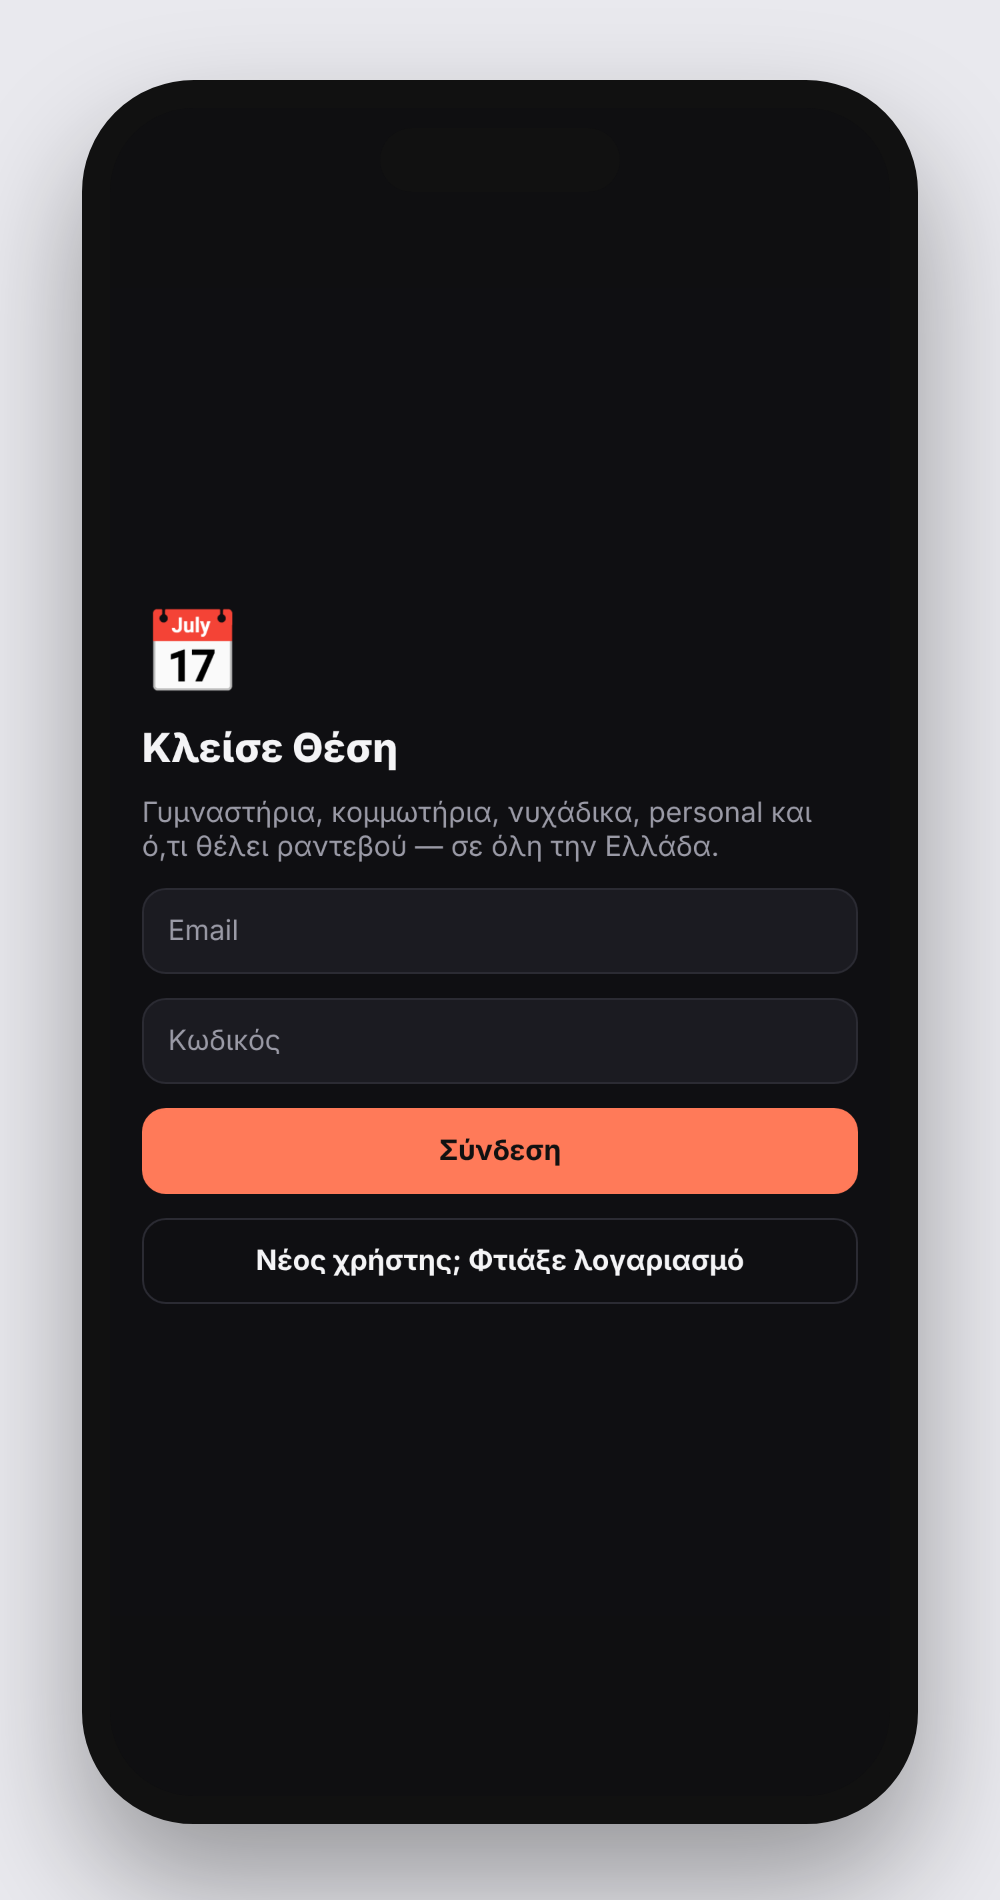
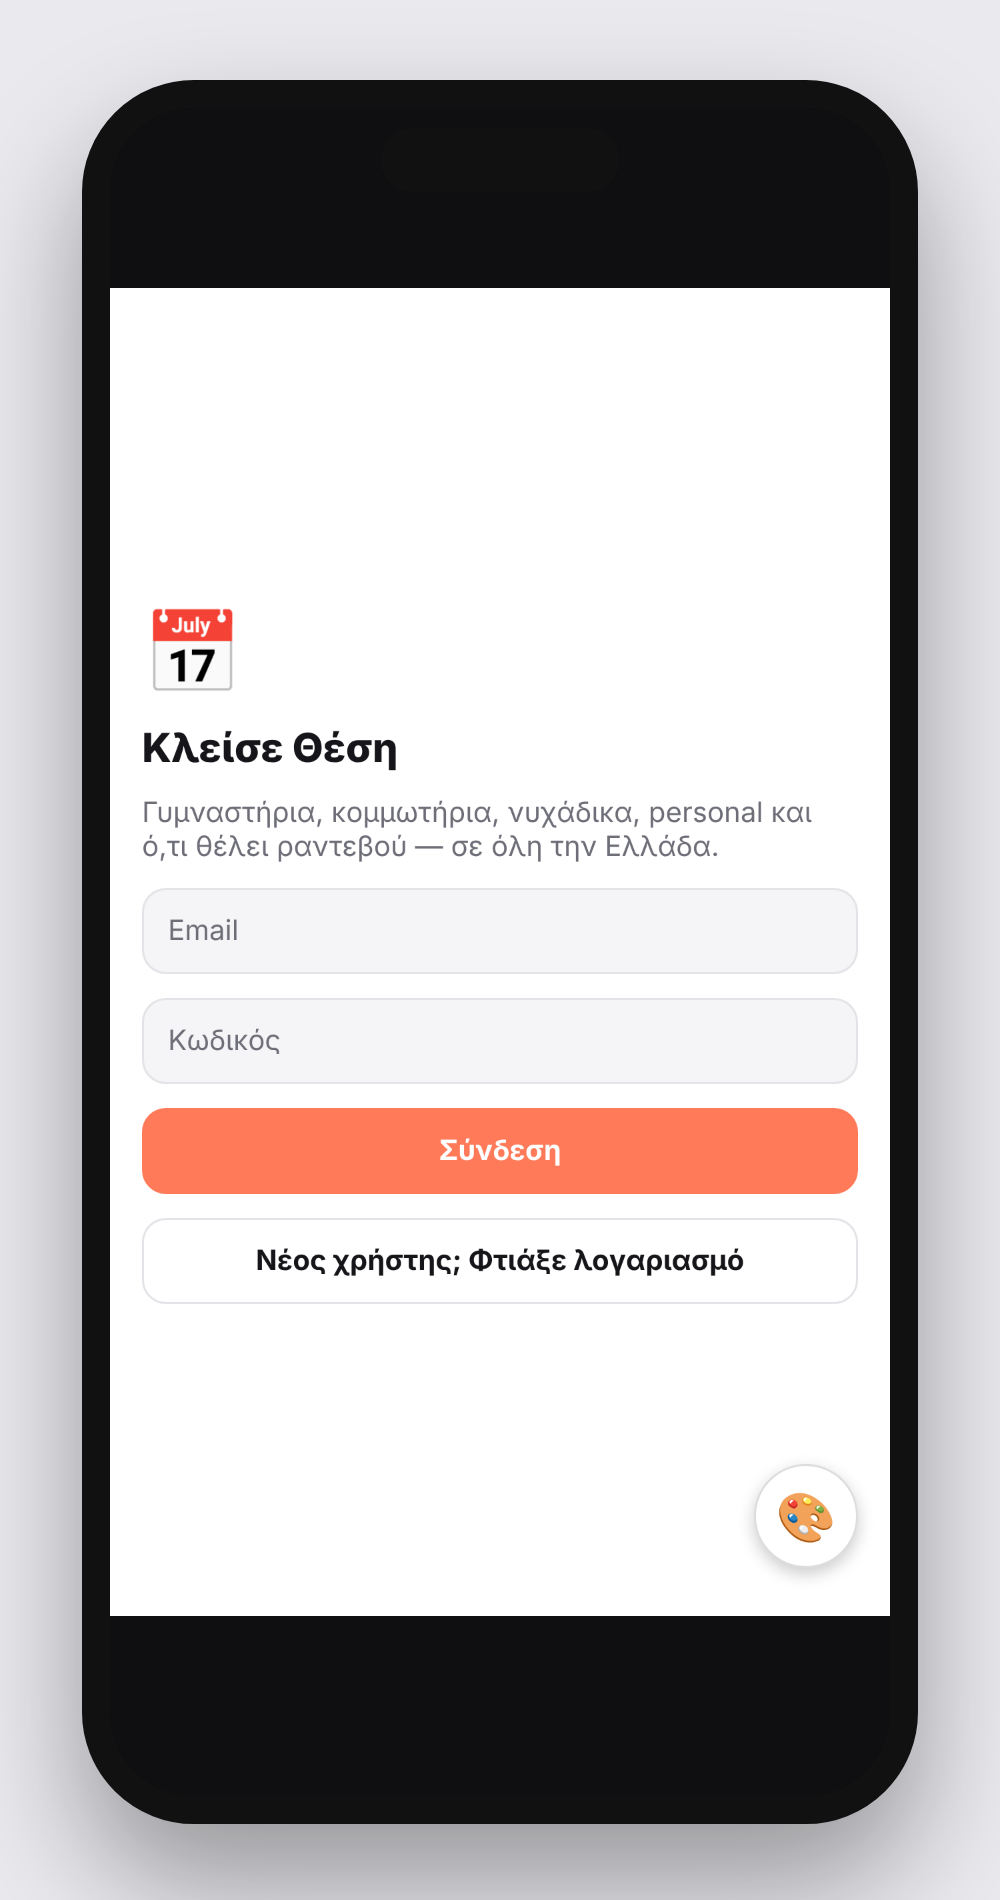
Άσπρο θέμα και live επεξεργαστής χρωμάτων (🎨)
Τα χρώματα ζουν στο lib/theme.ts, αλλάζουν από το πλωτό κουμπί 🎨
και αποθηκεύονται στη συσκευή.

Claude-Session: https://claude.ai/code/session_012ZWiMbW6J2KhnAgV6Pek42

diff --git a/lib/ColorEditor.tsx b/lib/ColorEditor.tsx
@@ -1,0 +1,56 @@
+import React, { useState } from 'react';
+import { Platform, Pressable, ScrollView, Text, TextInput, View } from 'react-native';
+import { C, LABELS, Theme, resetColors, setColors } from './theme';
+
+const SWATCHES = ['#ff7a59', '#e5484d', '#ec4899', '#a855f7', '#6366f1', '#2563eb', '#0ea5e9', '#14b8a6', '#1fa971', '#eab308', '#16161a', '#ffffff'];
+const HEX = /^#[0-9a-fA-F]{6}$/;
+
+function Row({ k }: { k: keyof Theme }) {
+  const [txt, setTxt] = useState(C[k]);
+  const set = (v: string) => { setTxt(v); if (HEX.test(v)) setColors({ [k]: v } as Partial<Theme>); };
+  return (
+    <View style={{ gap: 6, paddingVertical: 8, borderTopWidth: 1, borderTopColor: '#eee' }}>
+      <View style={{ flexDirection: 'row', alignItems: 'center', gap: 8 }}>
+        {Platform.OS === 'web'
+          ? React.createElement('input', { type: 'color', value: HEX.test(txt) ? txt : C[k], onChange: (e: any) => set(e.target.value),
+              style: { width: 36, height: 36, border: 'none', padding: 0, background: 'none', cursor: 'pointer' } })
+          : <View style={{ width: 32, height: 32, borderRadius: 8, backgroundColor: C[k], borderWidth: 1, borderColor: '#ccc' }} />}
+        <Text style={{ flex: 1, color: '#16161a', fontWeight: '600' }}>{LABELS[k]}</Text>
+        <TextInput value={txt} onChangeText={set} autoCapitalize="none"
+          style={{ width: 90, borderWidth: 1, borderColor: '#ddd', borderRadius: 8, padding: 6, color: '#16161a', fontFamily: Platform.OS === 'web' ? 'monospace' : undefined }} />
+      </View>
+      <View style={{ flexDirection: 'row', flexWrap: 'wrap', gap: 6 }}>
+        {SWATCHES.map((c) => <Pressable key={c} onPress={() => set(c)}
+          style={{ width: 22, height: 22, borderRadius: 11, backgroundColor: c, borderWidth: 1, borderColor: '#ccc' }} />)}
+      </View>
+    </View>
+  );
+}
+
+/* Πλωτό κουμπί 🎨 → πάνελ για να αλλάζεις όλα τα χρώματα live. Η επιλογή αποθηκεύεται στη συσκευή. */
+export default function ColorEditor() {
+  const [open, setOpen] = useState(false);
+  const [n, setN] = useState(0);
+  return (
+    <>
+      <Pressable onPress={() => setOpen(!open)} accessibilityLabel="Επεξεργαστής χρωμάτων"
+        style={{ position: 'absolute', right: 16, bottom: 24, width: 52, height: 52, borderRadius: 26, backgroundColor: '#fff',
+          alignItems: 'center', justifyContent: 'center', borderWidth: 1, borderColor: '#ddd', zIndex: 1000,
+          shadowColor: '#000', shadowOpacity: 0.2, shadowRadius: 8, shadowOffset: { width: 0, height: 3 }, elevation: 6 }}>
+        <Text style={{ fontSize: 24 }}>{open ? '✕' : '🎨'}</Text>
+      </Pressable>
+      {open && (
+        <View style={{ position: 'absolute', left: 12, right: 12, bottom: 88, maxHeight: '45%', backgroundColor: '#fff', borderRadius: 16,
+          borderWidth: 1, borderColor: '#ddd', zIndex: 999, shadowColor: '#000', shadowOpacity: 0.2, shadowRadius: 16, elevation: 10 }}>
+          <View style={{ flexDirection: 'row', alignItems: 'center', padding: 14, paddingBottom: 6 }}>
+            <Text style={{ flex: 1, fontSize: 17, fontWeight: '800', color: '#16161a' }}>Χρώματα</Text>
+            <Pressable onPress={() => { resetColors(); setN(n + 1); }}><Text style={{ color: '#2563eb', fontWeight: '600' }}>Επαναφορά</Text></Pressable>
+          </View>
+          <ScrollView key={n} contentContainerStyle={{ paddingHorizontal: 14, paddingBottom: 14 }}>
+            {(Object.keys(LABELS) as (keyof Theme)[]).map((k) => <Row key={k} k={k} />)}
+          </ScrollView>
+        </View>
+      )}
+    </>
+  );
+}

diff --git a/lib/ui.tsx b/lib/ui.tsx
@@ -1,7 +1,8 @@
 import React from 'react';
 import { Pressable, StyleSheet, Text, TextInput, TextInputProps, View, ViewStyle } from 'react-native';
 
-export const C = { bg: '#0f0f12', card: '#1b1b21', line: '#2b2b33', text: '#f4f4f6', mute: '#9a9aa6', accent: '#ff7a59', ok: '#3ecf8e', bad: '#ff5d5d' };
+import { C, onTheme } from './theme';
+export { C };
 
 export const CATEGORIES: { key: string; label: string; emoji: string }[] = [
   { key: 'gym', label: 'Γυμναστήρια', emoji: '🏋' },
@@ -27,7 +28,7 @@ export const fmtDay = (s: string) => { const d = new Date(s + 'T00:00'); return 
 export function Btn({ title, onPress, kind = 'primary', disabled, style }:
   { title: string; onPress: () => void; kind?: 'primary' | 'ghost' | 'danger'; disabled?: boolean; style?: ViewStyle }) {
   const bg = kind === 'primary' ? C.accent : 'transparent';
-  const color = kind === 'danger' ? C.bad : kind === 'ghost' ? C.text : '#111';
+  const color = kind === 'danger' ? C.bad : kind === 'ghost' ? C.text : C.onAccent;
   return (
     <Pressable onPress={onPress} disabled={disabled}
       style={[s.btn, { backgroundColor: bg, borderColor: kind === 'primary' ? C.accent : C.line, opacity: disabled ? 0.5 : 1 }, style]}>
@@ -40,7 +41,7 @@ export const Card = ({ children, style }: { children: React.ReactNode; style?: V
 export const H = ({ children }: { children: React.ReactNode }) => <Text style={s.h}>{children}</Text>;
 export const T = ({ children, mute }: { children: React.ReactNode; mute?: boolean }) => <Text style={{ color: mute ? C.mute : C.text }}>{children}</Text>;
 
-export const s = StyleSheet.create({
+const make = () => StyleSheet.create({
   screen: { flex: 1, backgroundColor: C.bg },
   pad: { padding: 16, gap: 12 },
   btn: { paddingVertical: 12, paddingHorizontal: 16, borderRadius: 12, borderWidth: 1, alignItems: 'center' },
@@ -50,3 +51,6 @@ export const s = StyleSheet.create({
   chip: { paddingVertical: 8, paddingHorizontal: 12, borderRadius: 999, borderWidth: 1, borderColor: C.line },
   row: { flexDirection: 'row', alignItems: 'center', gap: 8 },
 });
+
+export const s = make();
+onTheme(() => Object.assign(s, make()));

diff --git a/lib/theme.ts b/lib/theme.ts
@@ -1,0 +1,32 @@
+import AsyncStorage from '@react-native-async-storage/async-storage';
+
+/* Τα χρώματα της εφαρμογής. Αλλάζουν live από τον επεξεργαστή χρωμάτων (🎨). */
+export const DEFAULT = {
+  bg: '#ffffff', card: '#f5f5f7', line: '#e3e3e8', text: '#16161a', mute: '#6e6e78',
+  accent: '#ff7a59', onAccent: '#ffffff', ok: '#1fa971', bad: '#e5484d',
+};
+export type Theme = typeof DEFAULT;
+export const LABELS: Record<keyof Theme, string> = {
+  bg: 'Φόντο', card: 'Κάρτες / πεδία', line: 'Περιγράμματα', text: 'Κείμενο', mute: 'Δευτερεύον κείμενο',
+  accent: 'Κύριο χρώμα', onAccent: 'Κείμενο πάνω στο κύριο', ok: 'Επιτυχία', bad: 'Σφάλμα',
+};
+export const C: Theme = { ...DEFAULT };
+
+const KEY = 'theme.v1';
+const subs = new Set<() => void>();
+export const onTheme = (f: () => void) => { subs.add(f); return () => { subs.delete(f); }; };
+const emit = () => subs.forEach((f) => f());
+
+export function setColors(p: Partial<Theme>) {
+  Object.assign(C, p); emit();
+  AsyncStorage.setItem(KEY, JSON.stringify(C)).catch(() => {});
+}
+export const resetColors = () => setColors(DEFAULT);
+export async function loadTheme() {
+  try { const v = await AsyncStorage.getItem(KEY); if (v) { Object.assign(C, JSON.parse(v)); emit(); } } catch {}
+}
+export const isDark = () => {
+  const h = C.bg.replace('#', ''); if (h.length < 6) return false;
+  const [r, g, b] = [0, 2, 4].map((i) => parseInt(h.slice(i, i + 2), 16));
+  return 0.299 * r + 0.587 * g + 0.114 * b < 128;
+};

diff --git a/app/owner/setup.tsx b/app/owner/setup.tsx
@@ -57,7 +57,7 @@ export default function Setup() {
       <View style={[s.row, { flexWrap: 'wrap' }]}>
         {CATEGORIES.map((c) => (
           <Pressable key={c.key} onPress={() => setB({ ...b, category: c.key })} style={[s.chip, b.category === c.key && { backgroundColor: C.accent, borderColor: C.accent }]}>
-            <Text style={{ color: b.category === c.key ? '#111' : C.text }}>{c.emoji} {c.label}</Text>
+            <Text style={{ color: b.category === c.key ? C.onAccent : C.text }}>{c.emoji} {c.label}</Text>
           </Pressable>))}
       </View>
       <Input placeholder="Πόλη" value={b.city} onChangeText={(v) => setB({ ...b, city: v })} />
@@ -86,7 +86,7 @@ export default function Setup() {
       <View style={[s.row, { flexWrap: 'wrap' }]}>
         {DAYS.map((d, i) => { const on = hours.some((h) => h.weekday === i); return (
           <Pressable key={d} onPress={() => toggleDay(i)} style={[s.chip, on && { backgroundColor: C.accent, borderColor: C.accent }]}>
-            <Text style={{ color: on ? '#111' : C.text }}>{d}</Text></Pressable>); })}
+            <Text style={{ color: on ? C.onAccent : C.text }}>{d}</Text></Pressable>); })}
       </View>
       {hours.map((h, i) => (
         <View key={h.weekday} style={s.row}>

diff --git a/app/_layout.tsx b/app/_layout.tsx
@@ -1,7 +1,11 @@
 import { Stack, Redirect, useSegments } from 'expo-router';
 import { StatusBar } from 'expo-status-bar';
 import { AuthProvider, useAuth } from '../lib/auth';
+import { useEffect, useState } from 'react';
+import { View } from 'react-native';
 import { C } from '../lib/ui';
+import { isDark, loadTheme, onTheme } from '../lib/theme';
+import ColorEditor from '../lib/ColorEditor';
 
 function Gate() {
   const { session, ready } = useAuth();
@@ -23,5 +27,14 @@ function Gate() {
 }
 
 export default function Root() {
-  return <AuthProvider><StatusBar style="light" /><Gate /></AuthProvider>;
+  // Κάθε αλλαγή χρώματος ξαναζωγραφίζει την εφαρμογή.
+  const [v, setV] = useState(0);
+  useEffect(() => { const off = onTheme(() => setV((x) => x + 1)); loadTheme(); return off; }, []);
+  return (
+    <AuthProvider>
+      <StatusBar style={isDark() ? 'light' : 'dark'} />
+      <View key={v} style={{ flex: 1, backgroundColor: C.bg }}><Gate /></View>
+      <ColorEditor />
+    </AuthProvider>
+  );
 }

diff --git a/app/business/[id].tsx b/app/business/[id].tsx
@@ -99,8 +99,8 @@ export default function Business() {
       <ScrollView horizontal showsHorizontalScrollIndicator={false} contentContainerStyle={{ gap: 8, marginTop: 8 }}>
         {days.map((d) => { const dd = new Date(d + 'T00:00'); const on = d === date; return (
           <Pressable key={d} onPress={() => setDate(d)} style={[s.chip, { alignItems: 'center' }, on && { backgroundColor: C.accent, borderColor: C.accent }]}>
-            <Text style={{ color: on ? '#111' : C.mute, fontSize: 12 }}>{DAYS[dd.getDay()]}</Text>
-            <Text style={{ color: on ? '#111' : C.text, fontWeight: '700' }}>{dd.getDate()}</Text>
+            <Text style={{ color: on ? C.onAccent : C.mute, fontSize: 12 }}>{DAYS[dd.getDay()]}</Text>
+            <Text style={{ color: on ? C.onAccent : C.text, fontWeight: '700' }}>{dd.getDate()}</Text>
           </Pressable>); })}
       </ScrollView>
       {!!note && <Card><T>📌 {note}</T></Card>}

diff --git a/app/owner/index.tsx b/app/owner/index.tsx
@@ -82,8 +82,8 @@ export default function Owner() {
       <ScrollView horizontal showsHorizontalScrollIndicator={false} contentContainerStyle={{ gap: 8 }}>
         {week.map((d) => { const dd = new Date(d + 'T00:00'); const on = d === date; return (
           <Pressable key={d} onPress={() => setDate(d)} style={[s.chip, { alignItems: 'center' }, on && { backgroundColor: C.accent, borderColor: C.accent }]}>
-            <Text style={{ color: on ? '#111' : C.mute, fontSize: 12 }}>{DAYS[dd.getDay()]}</Text>
-            <Text style={{ color: on ? '#111' : C.text, fontWeight: '700' }}>{dd.getDate()}</Text>
+            <Text style={{ color: on ? C.onAccent : C.mute, fontSize: 12 }}>{DAYS[dd.getDay()]}</Text>
+            <Text style={{ color: on ? C.onAccent : C.text, fontWeight: '700' }}>{dd.getDate()}</Text>
           </Pressable>); })}
       </ScrollView>
 

diff --git a/app/index.tsx b/app/index.tsx
@@ -37,7 +37,7 @@ export default function Home() {
           {CATEGORIES.map((c) => (
             <Pressable key={c.key} onPress={() => setCat(cat === c.key ? null : c.key)}
               style={[s.chip, cat === c.key && { backgroundColor: C.accent, borderColor: C.accent }]}>
-              <Text style={{ color: cat === c.key ? '#111' : C.text }}>{c.emoji} {c.label}</Text>
+              <Text style={{ color: cat === c.key ? C.onAccent : C.text }}>{c.emoji} {c.label}</Text>
             </Pressable>
           ))}
         </ScrollView>
